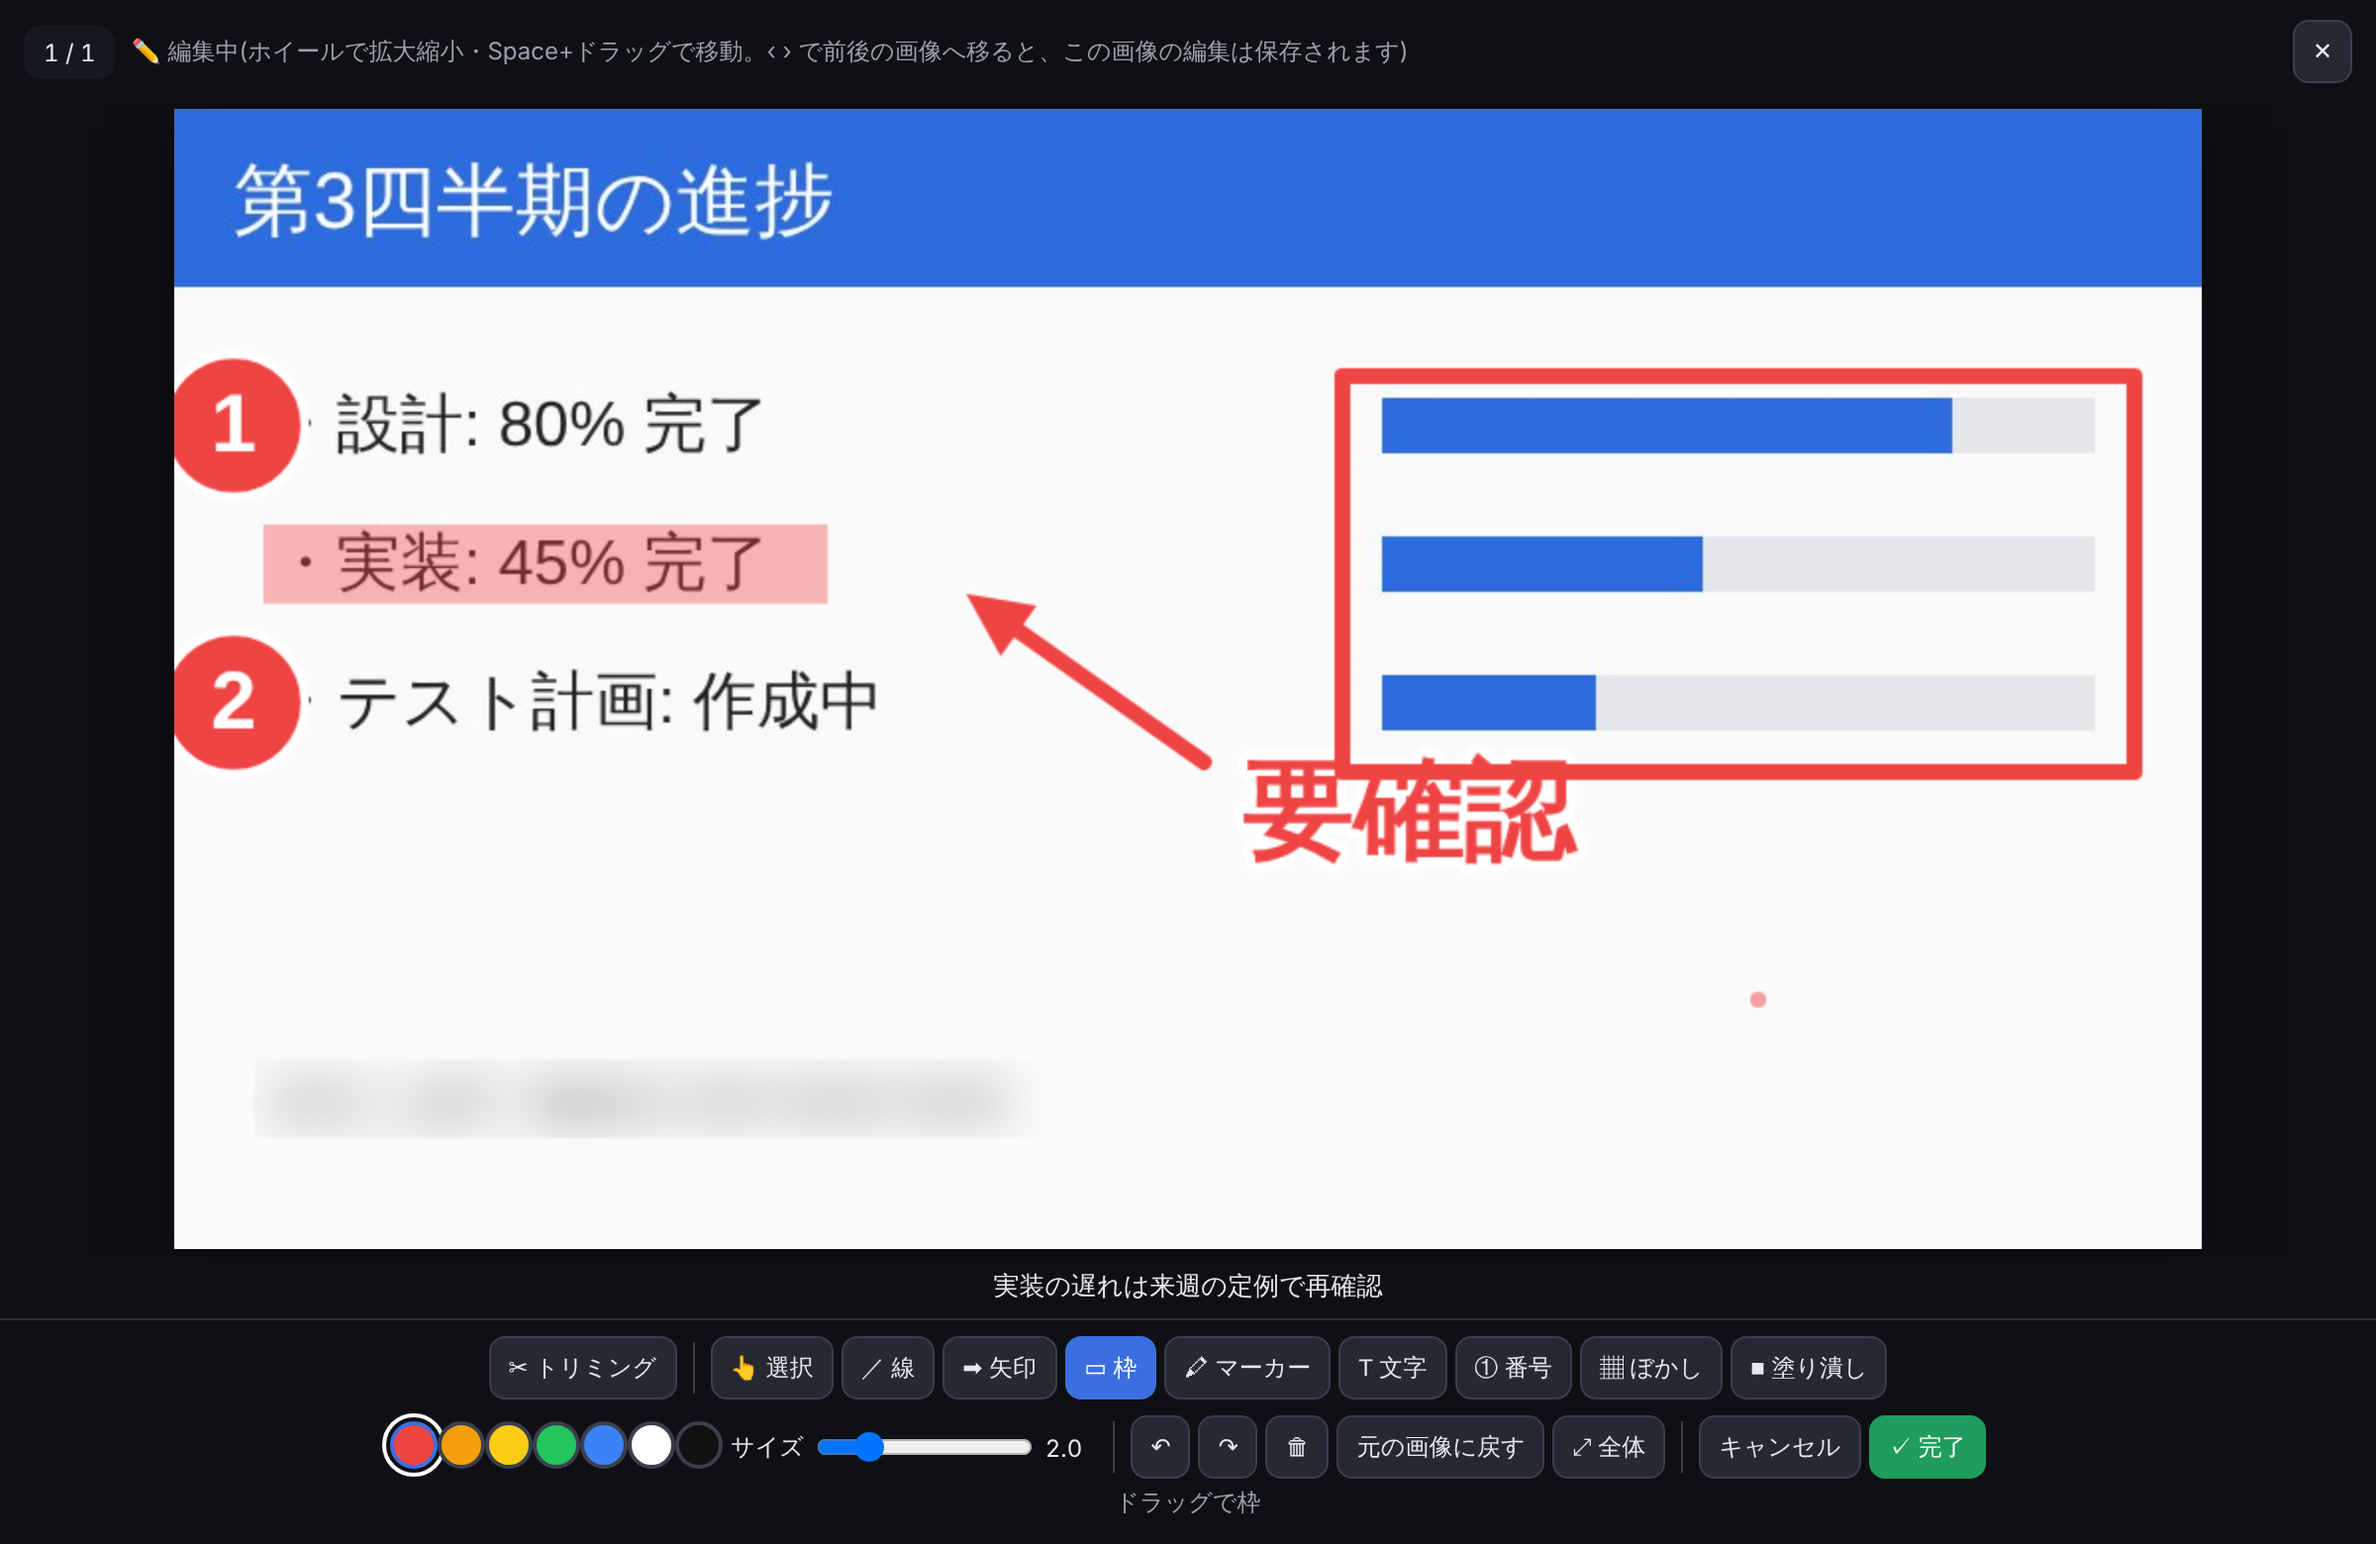
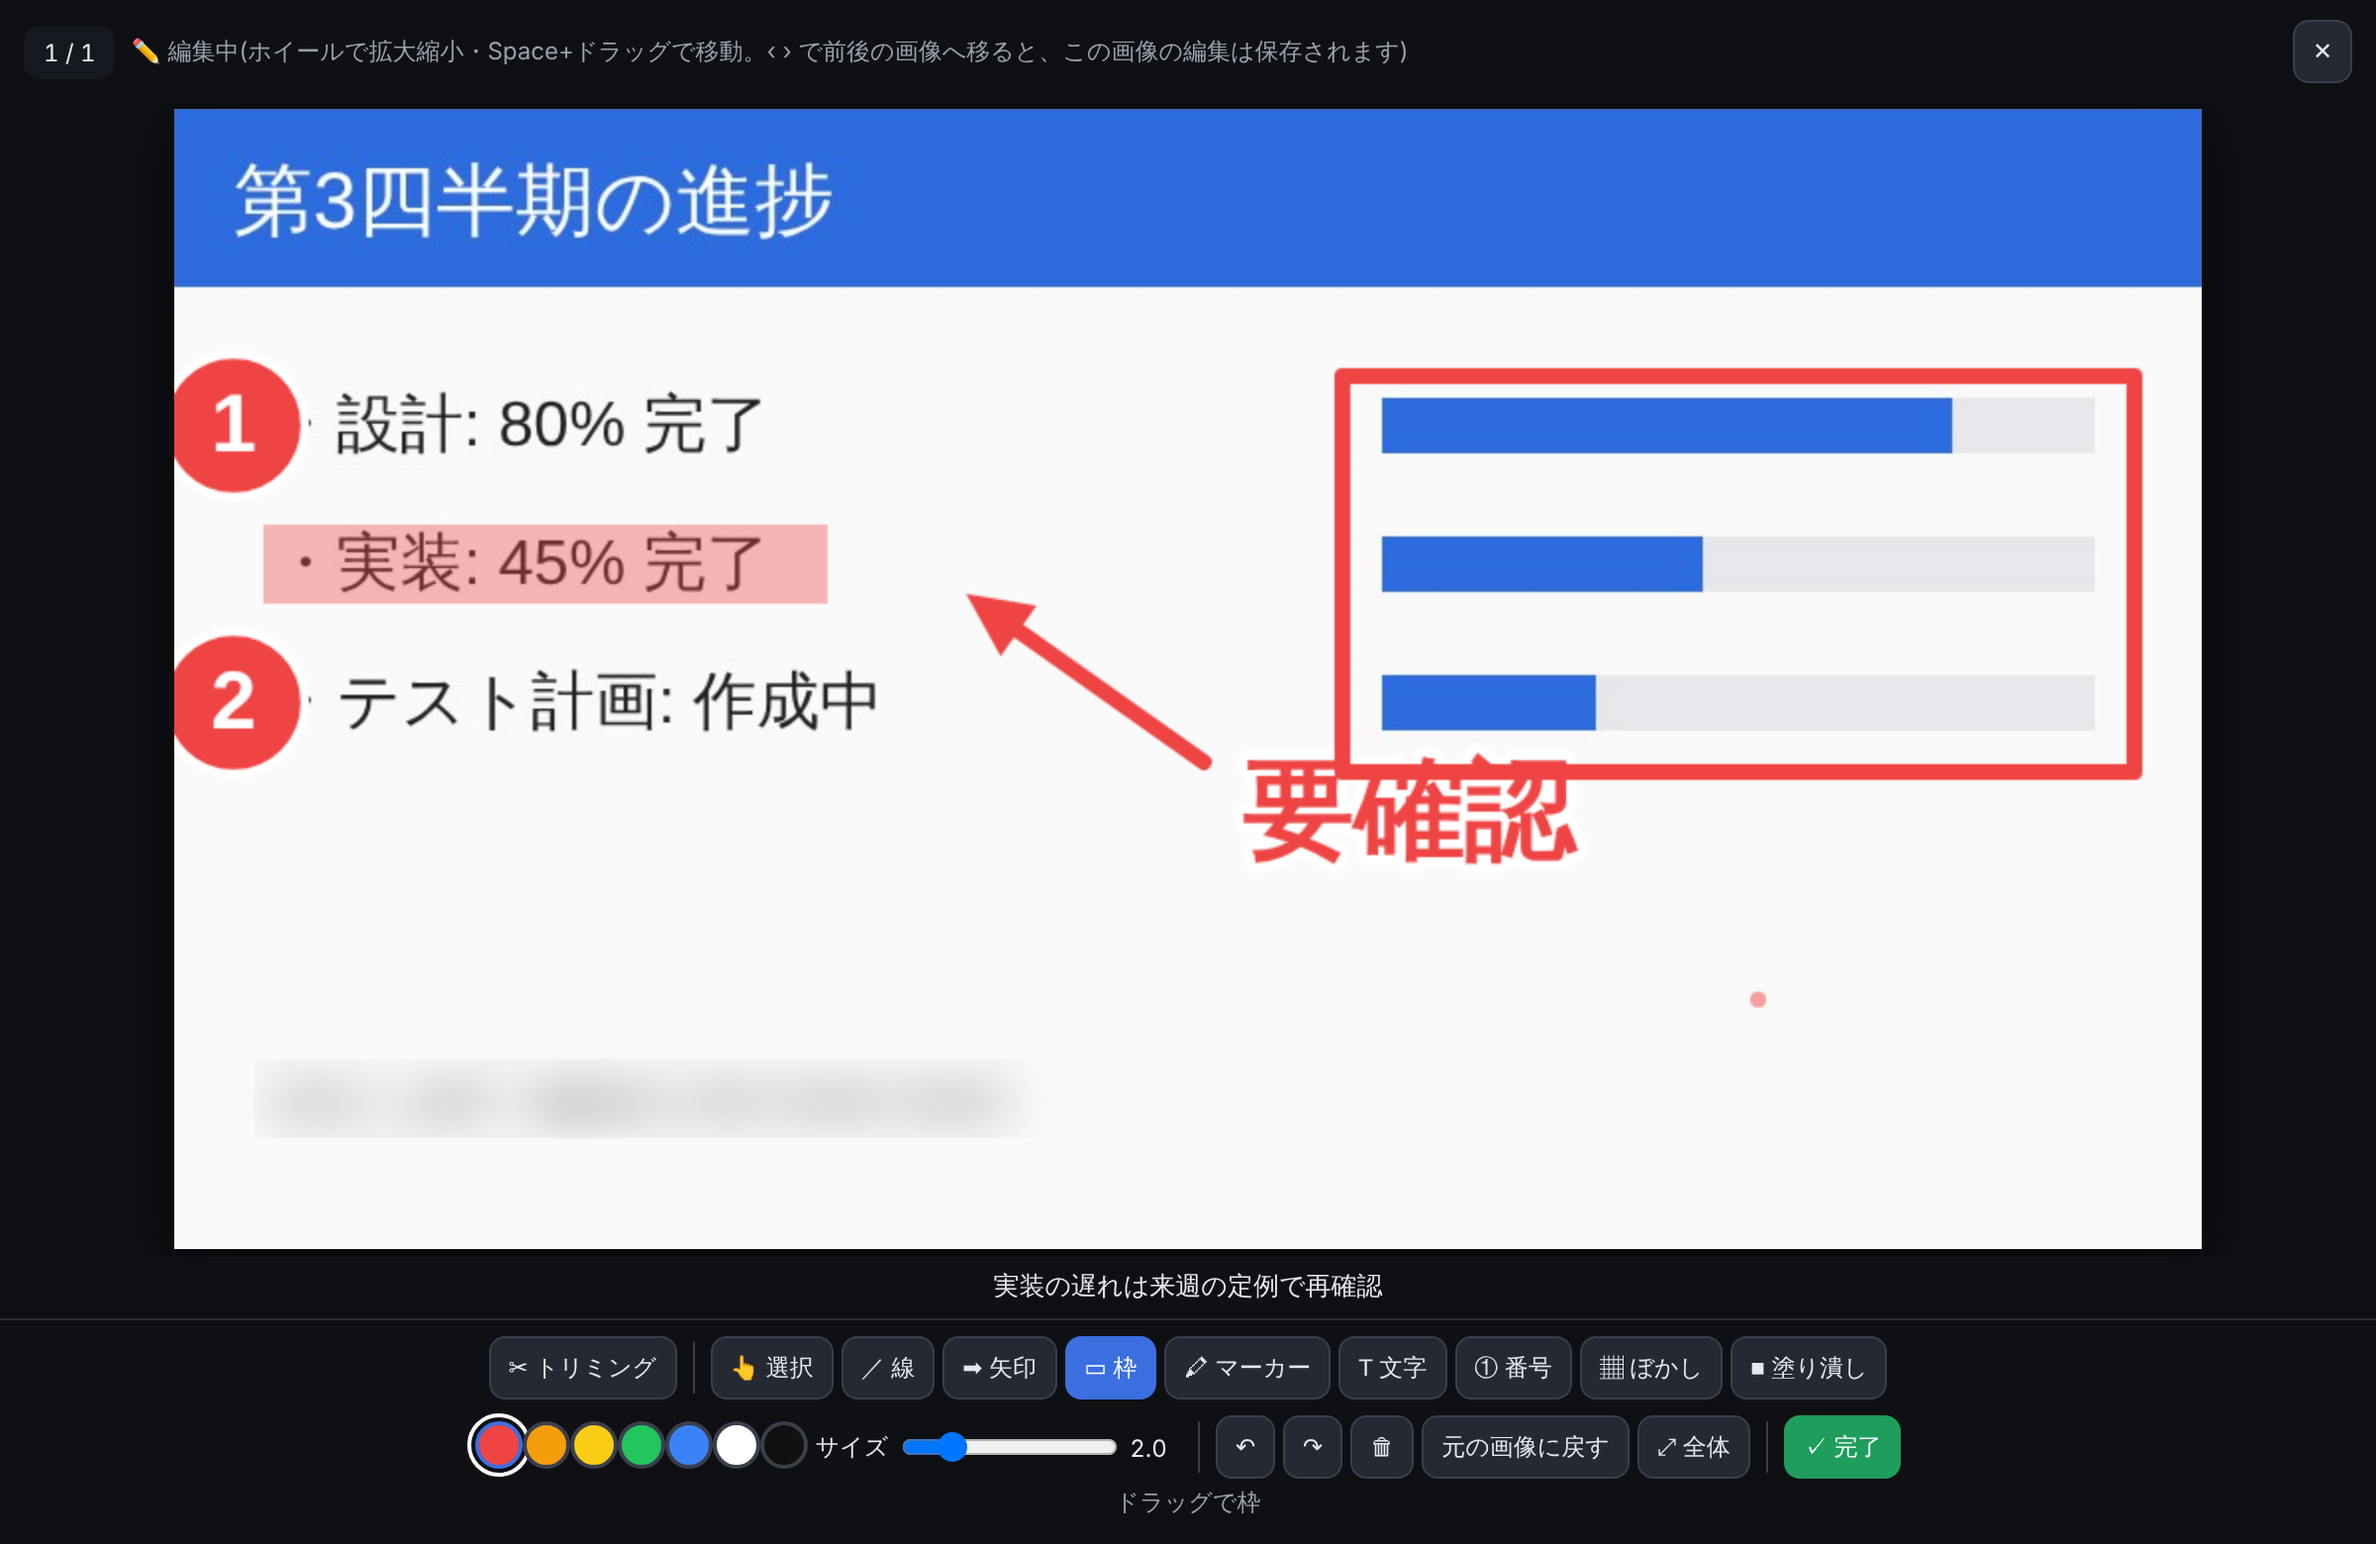
SmartCaptureMemo v06_2026-11-26.2: 編集画面は Esc でも保存して閉じる(キャンセル廃止)
Claude-Session: https://claude.ai/code/session_01YFt5PcScnp5RMTFYd4nYm6

Changed region(s): [[0.4375, 0.8923, 0.8438, 0.9846], [0.1562, 0.8923, 0.4062, 0.9538]]

diff --git a/SmartCaptureMemo/index.html b/SmartCaptureMemo/index.html
@@ -937,7 +937,7 @@
     <span id="edCounter"></span>
     <span id="edTitle">✏ 編集中(ホイールで拡大縮小・Space+ドラッグで移動。‹ › で前後の画像へ移ると、この画像の編集は保存されます)</span>
     <span class="sp"></span>
-    <button type="button" id="edClose" title="保存して閉じる">✕</button>
+    <button type="button" id="edClose" title="保存して閉じる(Esc)">✕</button>
   </div>
   <div id="edStageWrap">
     <button type="button" class="edNav" id="edPrev" title="前の画像(この画像の編集は保存)">‹</button>
@@ -969,8 +969,7 @@
     <button type="button" id="edReset" title="トリミングも書き込みも消して元の画像に戻す(↶で取り消せます)">元の画像に戻す</button>
     <button type="button" id="edFit" title="拡大をやめて全体を表示(ホイールで拡大縮小、Space+ドラッグで移動)">⤢ 全体</button>
     <span class="sep"></span>
-    <button type="button" id="edCancel" title="この画像の今回の編集をやめて閉じる(Esc)">キャンセル</button>
-    <button type="button" class="ok" id="edDone" title="保存して閉じる">✓ 完了</button>
+    <button type="button" class="ok" id="edDone" title="保存して閉じる(Esc)">✓ 完了</button>
     <div id="edHint"></div>
   </div>
 </div>
@@ -4729,7 +4728,6 @@
   $("edCropLast").addEventListener("click", () => { if(!lastCropRatio || !edItem) return; edPushUndo(); edItem.crop = cropFromLastRatio(edItem.src); edDraw(); });
   $("edDone").addEventListener("click", () => closeImageEditor(true));
   $("edClose").addEventListener("click", () => closeImageEditor(true));
-  $("edCancel").addEventListener("click", () => closeImageEditor(false));
   $("edPrev").addEventListener("click", () => edGo(-1));
   $("edNext").addEventListener("click", () => edGo(1));
   $("lbEdit").addEventListener("click", () => { if(lightboxIndex >= 0) openImageEditor(lightboxIndex, edTool === "crop" ? "arrow" : edTool); });
@@ -4745,7 +4743,7 @@
     if(mod && k === "y"){ e.preventDefault(); edRedo(); return; }
     if(mod && k === "a" && edTool === "select"){ e.preventDefault(); edSel = new Set(edItem.annots.map((_, i) => i)); edDraw(); return; }
     if(e.key === "Delete" || e.key === "Backspace"){ e.preventDefault(); edDeleteSel(); return; }
-    if(e.key === "Escape"){ closeImageEditor(false); return; }
+    if(e.key === "Escape"){ closeImageEditor(true); return; } // 編集は常に保存(あとで消す・一覧の Ctrl+Z で戻すことができるため)
   }, true);
   document.addEventListener("keyup", (e) => { if(e.code === "Space" && edSpaceDown){ edSpaceDown = false; edCanvas.style.cursor = ""; } }, true);
   window.addEventListener("resize", () => { if(edItem) edDraw(); });
@@ -4787,7 +4785,7 @@
   });
 
   // ---------- バージョン履歴(さりげなく表記をクリックすると見られる簡易ログ) ----------
-  const APP_VERSION = "v06_2026-11-26"; // ← バージョンはここだけ変更(画面表示・更新履歴の先頭はこの定数から反映)
+  const APP_VERSION = "v06_2026-11-26.2"; // ← バージョンはここだけ変更(画面表示・更新履歴の先頭はこの定数から反映)
   const VERSION_HISTORY = [
     ["v01","Screen Capture Memo(旧ツール v01〜v104)。画面共有→範囲固定→キャプチャ→メモ→HTML書き出し・書き出し履歴まで"], // 説明は文字列、または箇条書きにする場合は文字列の配列
     ["v02_2026-11-18",["SmartCaptureMemoとして新規作成(Screen Capture Memo v104がベース、保存データは別)","上部タブ(範囲/記録/履歴)+⚙設定へ再編","見出しのセクション化(現在の見出しへ追加・目次・折りたたみ・Enterで連続登録)","履歴の期間フィルタ・検索・ファイルを開く/読み込む","保存先フォルダを毎回の選択ダイアログから許可確認方式へ"]],
@@ -4829,7 +4827,8 @@
     ["v05_2026-11-25",["スライドの自動検出: 範囲タブ・トリミング画面でスライドの中をダブルクリック(範囲タブは「🔍 スライド検出」も)すると、スライドの枠を探して範囲に入れる","スライドが映像の端に接している場合(Web会議でスライドが端いっぱい)にも対応","スライド内の区切り線(タイトル下の線など)を縁と誤認しないよう、縁の内外の色が違う枠を優先"]],
     ["v05_2026-11-26","記録一覧の操作を元に戻す/やり直し(Ctrl+Z / Ctrl+Y、直近10回): 削除・並べ替え・メモや見出しの文章・見出し/メモの切り替え。削除時の知らせをクリックしても元に戻せる"],
     ["v05_2026-11-26.2","元に戻す/やり直しの対象に資料タイトル・日付の変更を追加"],
-    ["v06_2026-11-26",["画像の編集: 拡大表示・一覧の「✏ 編集」でトリミングと書き込み(線・矢印・枠・蛍光マーカー・文字・①②③番号・ぼかし・塗り潰し)をまとめて行える(トリミング画面は編集画面に統合)","書き込みは元の画像を基準に保存するので、あとから動かす・消す・色やサイズを変えるのも自由。Ctrl+ホイールでサイズ、ホイールで拡大縮小、Ctrl+Z で元に戻す","編集の確定は一覧の Ctrl+Z でも元に戻せる。書き出したHTMLでは「✏ 書き込み ON/OFF」で表示を切り替えられ、取り込み直すと書き込みを編集し直せる"]]
+    ["v06_2026-11-26",["画像の編集: 拡大表示・一覧の「✏ 編集」でトリミングと書き込み(線・矢印・枠・蛍光マーカー・文字・①②③番号・ぼかし・塗り潰し)をまとめて行える(トリミング画面は編集画面に統合)","書き込みは元の画像を基準に保存するので、あとから動かす・消す・色やサイズを変えるのも自由。Ctrl+ホイールでサイズ、ホイールで拡大縮小、Ctrl+Z で元に戻す","編集の確定は一覧の Ctrl+Z でも元に戻せる。書き出したHTMLでは「✏ 書き込み ON/OFF」で表示を切り替えられ、取り込み直すと書き込みを編集し直せる"]],
+    ["v06_2026-11-26.2","画像の編集: Esc でも保存して閉じるように(キャンセルボタンを廃止。戻したいときは ↶ や一覧の Ctrl+Z で)"]
   ];
 
   const verLabel = $("verLabel");

diff --git a/SmartCaptureMemo/help.html b/SmartCaptureMemo/help.html
@@ -382,7 +382,7 @@
     <li><strong>色・サイズ</strong>: 7色から選びます。サイズはスライダーか <kbd>Ctrl</kbd>+ホイール(0.1ずつ)、<kbd>Ctrl</kbd>+<kbd>Shift</kbd>+ホイール(1.0, 1.5, 2.0… の0.5刻み)。マウスの位置に、これから置く大きさの見本が薄く表示されます。</li>
     <li><strong>拡大</strong>: ホイールで拡大縮小、<kbd>Space</kbd>+ドラッグ(または中ボタンのドラッグ)で移動、「⤢ 全体」で元の大きさに戻します。</li>
     <li><strong>元に戻す</strong>: 編集中は ↶ ↷(<kbd>Ctrl</kbd>+<kbd>Z</kbd> / <kbd>Ctrl</kbd>+<kbd>Y</kbd>)。「元の画像に戻す」でトリミングも書き込みも消えます(↶で取り消せます)。</li>
-    <li><strong>確定</strong>: 「✓ 完了」または ✕ で保存して閉じます。「キャンセル」(<kbd>Esc</kbd>)はその画像の今回の編集をやめます。‹ › で前後の画像へ移ると、今の画像の編集を保存して、次の画像でも編集を続けられます。確定した編集は、一覧の <kbd>Ctrl</kbd>+<kbd>Z</kbd> でも元に戻せます。</li>
+    <li><strong>確定</strong>: 「✓ 完了」・✕・<kbd>Esc</kbd> のどれでも保存して閉じます(編集は常に保存。戻したいときは編集中の ↶ か、閉じた後の一覧の <kbd>Ctrl</kbd>+<kbd>Z</kbd> で)。‹ › で前後の画像へ移ると、今の画像の編集を保存して、次の画像でも編集を続けられます。確定した編集は、一覧の <kbd>Ctrl</kbd>+<kbd>Z</kbd> でも元に戻せます。</li>
     <li>書き込みは<strong>元の画像を基準に保存</strong>しているので、あとから開き直して動かす・消す・色やサイズを変えることができます。一覧・書き出し・ZIP保存には書き込みを焼き込んだ画像を使います。</li>
     <li>一度トリミングすると、他の画像の行に<strong>🔁前回の範囲</strong>ボタンが現れ、編集画面を開かずに同じ比率の範囲を適用できます(書き込みはそのまま)。</li>
   </ul>
